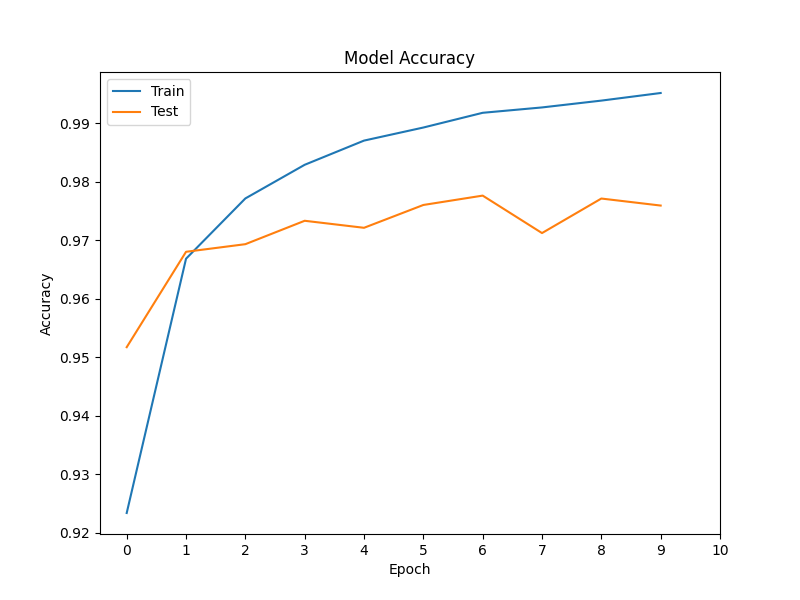
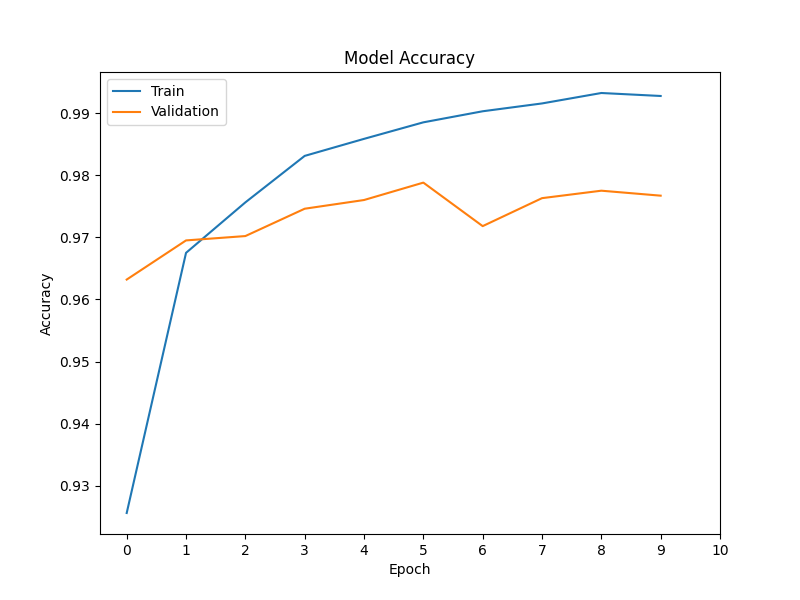
Added the temp.py file, still need to adjust all of the overfiting files to work properly.

diff --git a/temp.py b/temp.py
@@ -1,0 +1,113 @@
+import os
+import numpy as np
+import matplotlib.pyplot as plt
+import tensorflow as tf
+from sklearn.model_selection import train_test_split
+from sklearn.metrics import classification_report, roc_curve, auc
+from sklearn.preprocessing import label_binarize
+import seaborn as sns
+import pandas as pd
+
+# Create "Results" directory if it doesn't exist
+os.makedirs('Results', exist_ok=True)
+
+# Load and preprocess the MNIST dataset
+mnist = tf.keras.datasets.mnist
+(x_train_full, y_train_full), (x_test, y_test) = mnist.load_data()
+
+# Normalize the data
+x_train_full = x_train_full / 255.0
+x_test = x_test / 255.0
+
+# Reshape data to include a channel dimension
+x_train_full = np.expand_dims(x_train_full, axis=-1)
+x_test = np.expand_dims(x_test, axis=-1)
+
+# Split the original training data into training and validation sets
+x_train, x_val, y_train, y_val = train_test_split(x_train_full, y_train_full, test_size=10000, random_state=42)
+
+# Define the neural network model
+model = tf.keras.models.Sequential([
+    tf.keras.layers.Flatten(input_shape=(28, 28, 1)),
+    tf.keras.layers.Dense(128, activation=tf.nn.relu),
+    tf.keras.layers.Dense(128, activation=tf.nn.relu),
+    tf.keras.layers.Dense(10, activation=tf.nn.softmax)
+])
+
+# Compile the model
+model.compile(optimizer='adam', loss='sparse_categorical_crossentropy', metrics=['accuracy'])
+
+# Train the model with the validation set and 10 epochs
+history = model.fit(x_train, y_train, epochs=10, validation_data=(x_val, y_val), verbose=1)
+
+# Evaluate the model on the test set
+test_loss, test_accuracy = model.evaluate(x_test, y_test, verbose=0)
+print(f"Accuracy (percentages of correctly classified instances): {test_accuracy * 100:.2f}%")
+
+# Custom Classification Report without F1-score and support
+y_pred = np.argmax(model.predict(x_test), axis=-1)
+report = classification_report(y_test, y_pred, output_dict=True)
+
+# Create a DataFrame to display the report
+df = pd.DataFrame(report).transpose()
+
+# Select only the precision and recall columns, convert them to percentages, and rename the index to "digit"
+df = df.loc[df.index.map(lambda x: x.isdigit()), ['precision', 'recall']] * 100
+df.index.name = "Digit"
+
+# Save the DataFrame to a CSV file in the "Results" folder
+df.to_csv('Results/classification_report.csv', float_format='%.2f%%')
+
+# Save the training history (accuracy, loss, val_accuracy, val_loss) to a CSV file in the "Results" folder
+epochs_df = pd.DataFrame({
+    'epoch': range(1, len(history.history['accuracy']) + 1),
+    'accuracy': np.array(history.history['accuracy']) * 100,
+    'loss': history.history['loss'],
+    'val_accuracy': np.array(history.history['val_accuracy']) * 100,
+    'val_loss': history.history['val_loss']
+})
+
+# Save the DataFrame to a CSV file in the "Results" folder
+epochs_df.to_csv('Results/epochs_results.csv', index=False, float_format='%.4f')
+
+# Plotting and saving training accuracy values
+plt.figure(figsize=(8, 6))
+plt.plot(history.history['accuracy'], label='Train')
+plt.plot(history.history['val_accuracy'], label='Validation')
+plt.title('Model Accuracy')
+plt.xlabel('Epoch')
+plt.ylabel('Accuracy')
+plt.xticks(ticks=np.arange(0, 11, 1))  # Adjust x-axis to go up to 10
+plt.legend(loc='upper left')
+plt.savefig('Results/model_accuracy.png')  # Save the accuracy figure to "Results" folder
+plt.show()
+
+# Plotting and saving training loss values
+plt.figure(figsize=(8, 6))
+plt.plot(history.history['loss'], label='Train')
+plt.plot(history.history['val_loss'], label='Validation')
+plt.title('Model Loss')
+plt.xlabel('Epoch')
+plt.ylabel('Loss')
+plt.xticks(ticks=np.arange(0, 11, 1))  # Adjust x-axis to go up to 10
+plt.legend(loc='upper left')
+plt.savefig('Results/model_loss.png')  # Save the loss figure to "Results" folder
+plt.show()
+
+# ROC Curve and AUC for combined classes
+y_test_bin = label_binarize(y_test, classes=[0, 1, 2, 3, 4, 5, 6, 7, 8, 9])
+y_pred_prob = model.predict(x_test)
+
+# Calculate micro-average ROC curve and AUC
+fpr, tpr, _ = roc_curve(y_test_bin.ravel(), y_pred_prob.ravel())
+roc_auc = auc(fpr, tpr)
+
+plt.figure(figsize=(10, 7))
+plt.plot(fpr, tpr, label=f'Micro-Average ROC Curve (AUC = {roc_auc * 100:.2f}%)')
+plt.plot([0, 1], [0, 1], 'k--')
+plt.xlabel('False Positive Rate')
+plt.ylabel('True Positive Rate')
+plt.title('ROC Curve for Combined Classes')
+plt.legend(loc='best')
+plt.savefig('Results/roc_curve.png')  # Save the ROC curve figure to "Results" folder
+plt.show()
